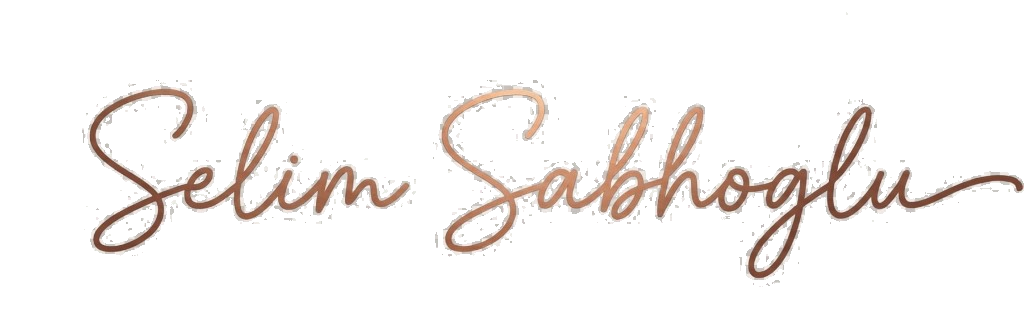
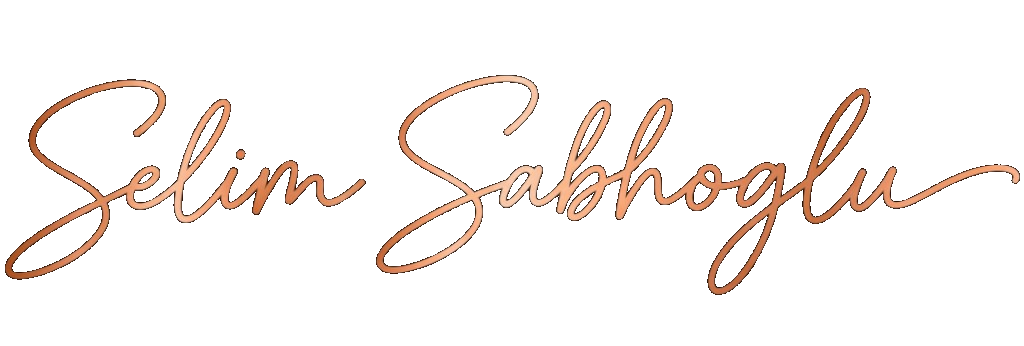
Replace contact signature with new transparent PNG asset.
Use the user-provided signature image with black background removed so it blends on the navy panel.

Changed region(s): [[0.0, 0.2141, 1.0, 0.8563]]

diff --git a/kontakt.html b/kontakt.html
@@ -162,7 +162,7 @@
                     <li>WhatsApp: <a href="schaden-melden.html">Schaden melden</a></li>
                     <li>Pohlweg 76, 33098 Paderborn</li>
                   </ul>
-                  <p class="guide-kontakt__signature"><img class="guide-kontakt__signature-img" src="assets/contact/selim-sabahoglu-signature.png?v=10" alt="Unterschrift Selim Sabahoglu" width="420" height="134" loading="lazy" decoding="async" /></p>
+                  <p class="guide-kontakt__signature"><img class="guide-kontakt__signature-img" src="assets/contact/selim-sabahoglu-signature.png?v=11" alt="Unterschrift Selim Sabahoglu" width="420" height="142" loading="lazy" decoding="async" /></p>
                   <a class="guide-kontakt__cta" href="mailto:sesa-svb@outlook.de">Kontakt aufnehmen →</a>
                 </div>
               </div>

diff --git a/build_site.py b/build_site.py
@@ -13,7 +13,7 @@ ABOUT_HERO = "assets/about/about-hero.jpg?v=1"
 ABOUT_PORTRAIT = "assets/portrait-placeholder.png?v=1"
 CONTACT_HERO = "assets/hero-inspection.png"
 BLOG_HERO = "assets/blog/blog-hero.jpg?v=3"
-SIGNATURE_IMAGE = "assets/contact/selim-sabahoglu-signature.png?v=10"
+SIGNATURE_IMAGE = "assets/contact/selim-sabahoglu-signature.png?v=11"
 KONTAKT_SIGNATURE_STYLE = """
     <style>
       main:has(.guide-kontakt) {
@@ -1272,7 +1272,7 @@ def kontakt_page_body() -> str:
                     <li>WhatsApp: <a href="schaden-melden.html">Schaden melden</a></li>
                     <li>{ADDRESS}</li>
                   </ul>
-                  <p class="guide-kontakt__signature"><img class="guide-kontakt__signature-img" src="{SIGNATURE_IMAGE}" alt="Unterschrift {OWNER}" width="420" height="134" loading="lazy" decoding="async" /></p>
+                  <p class="guide-kontakt__signature"><img class="guide-kontakt__signature-img" src="{SIGNATURE_IMAGE}" alt="Unterschrift {OWNER}" width="420" height="142" loading="lazy" decoding="async" /></p>
                   <a class="guide-kontakt__cta" href="mailto:{EMAIL}">Kontakt aufnehmen →</a>
                 </div>
               </div>
